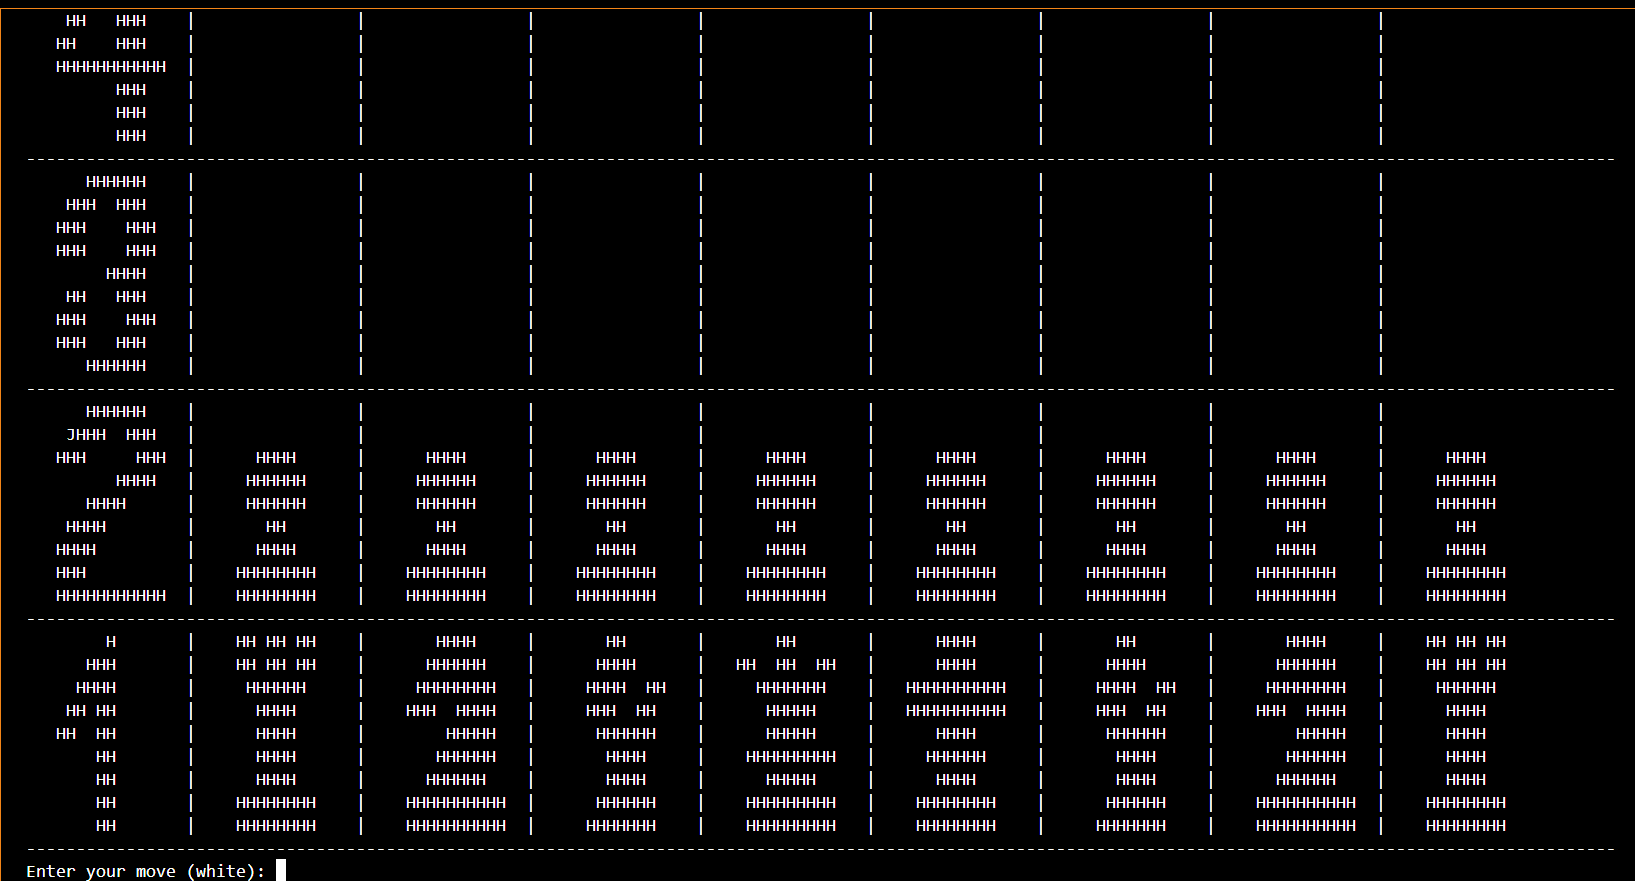
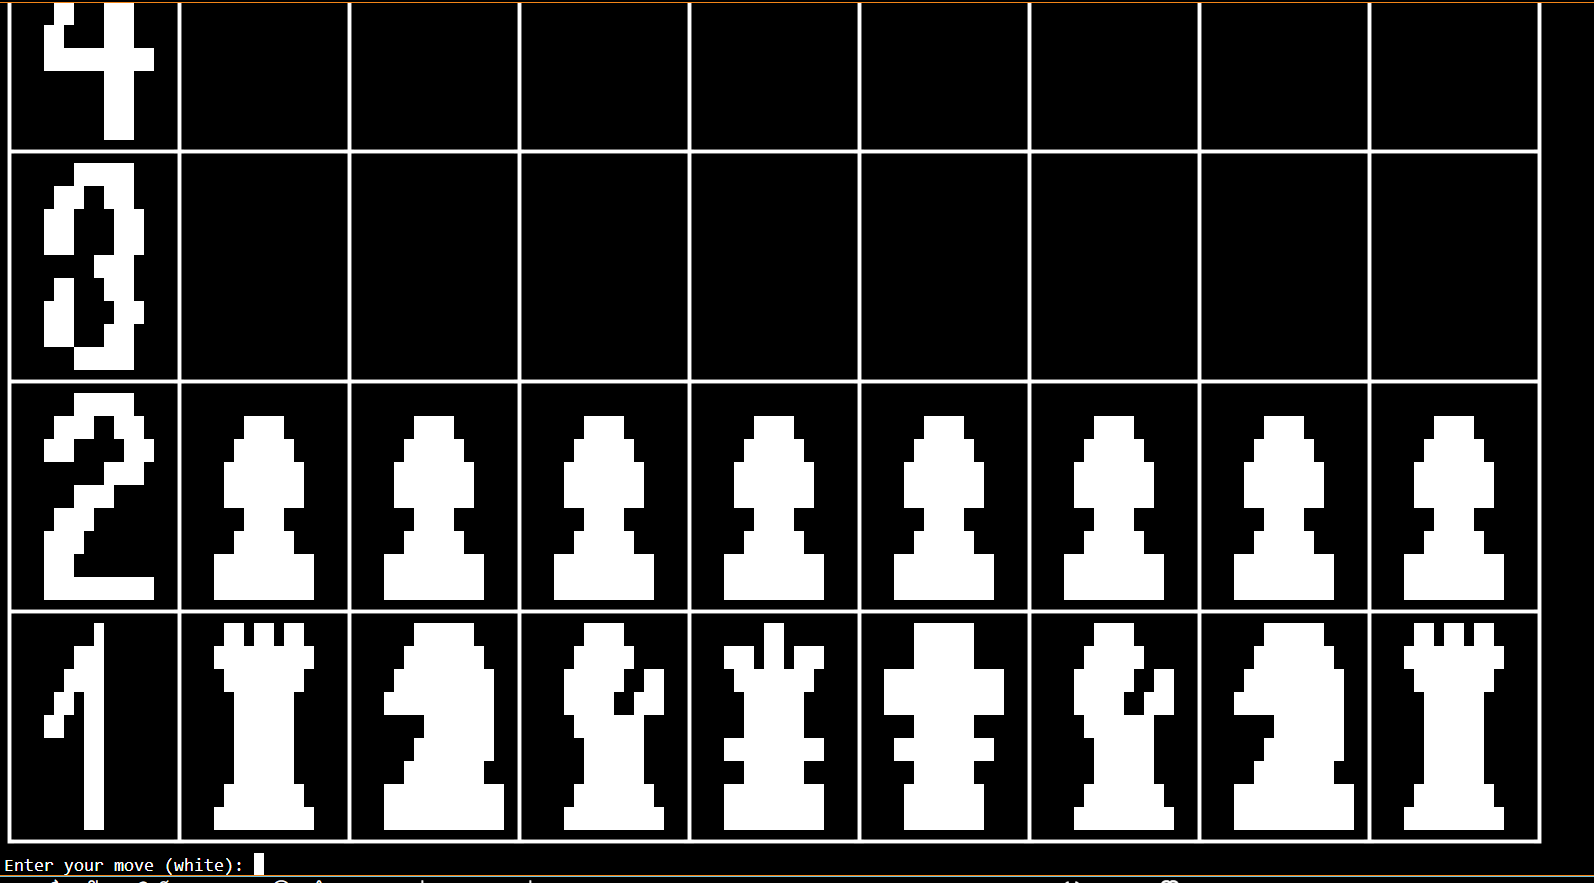
Better graphics

Changed region(s): [[0.0, 0.0, 1.0, 1.0], [0.6148, 0.0, 0.6763, 0.0306]]

diff --git a/render.py b/render.py
@@ -5,6 +5,26 @@ from graphics.pieces import PAWN_PATTERN
 from graphics.letters import letter_graphic_mapping
 from subprocess import run
 
+def separator(big_row_index, cols, piece_width, rows):
+    beginning_char = "┏"
+    ending_char = "┓"
+    joiner = "┳"
+    class Numbers:
+        FIRST = 0
+        LAST = rows + 1
+    match big_row_index:
+        case Numbers.LAST:
+            pass
+        case Numbers.FIRST:
+            beginning_char = "┗"
+            ending_char = "┛"
+            joiner = "┻"
+        case _:
+            beginning_char = "┣"
+            joiner = "╋"
+            ending_char = "┫"
+    print(beginning_char + joiner.join(["━" * piece_width for _ in range(cols + 1)]) + ending_char)
+
 
 def graphics(board: Board) -> str:
     rows = []
@@ -14,21 +34,23 @@ def graphics(board: Board) -> str:
             row = []
             for column in range(len(board.mapping[0]) + 1):
                 if big_row == len(board.mapping):
-                    row.append(letter_graphic_mapping[column][normal_row].replace("_", " "))
+                    row.append(letter_graphic_mapping[column][normal_row].replace("_", " ").replace("H", "█"))
                 else:
                     if column == 0:
-                        row.append(num_graphic_mapping[big_row][normal_row].replace("_", " "))
+                        row.append(num_graphic_mapping[big_row][normal_row].replace("_", " ").replace("H", "█"))
                     else:
                         piece: Piece = board[column-1,big_row]
                         if piece.color == 'black':
-                            row.append(piece.pattern[normal_row].replace("H", " ").replace("_", "H"))
+                            row.append(piece.pattern[normal_row].replace("H", " ").replace("_", " ").replace("J", "█"))
                         elif piece.color == 'white':
-                            row.append(piece.pattern[normal_row].replace("_", " "))
+                            row.append(piece.pattern[normal_row].replace("_", " ").replace("H", "█").replace("J", "█"))
                         else:
-                            row.append("                ")
-            print("|".join(row))
+                            row.append(" " * len(PAWN_PATTERN[0]))
+            print("┃" + "┃".join(row) + "┃")
             big_row_state.append("|".join(row)+"\n")
-        print("-" * ((len(board.mapping[0]) + 1)* len(PAWN_PATTERN[0]) + len(PAWN_PATTERN[0]) - 1))
+        # print("━" * ((len(board.mapping[0]) + 1)* len(PAWN_PATTERN[0]) + len(PAWN_PATTERN[0]) - 1))
+        separator(big_row, len(board.mapping[0]), len(PAWN_PATTERN[0]), len(board.mapping))
+
         rows.extend(big_row_state)
         rows.append("-" * len(big_row_state[0]))
 

diff --git a/graphics/pieces.py b/graphics/pieces.py
@@ -1,66 +1,66 @@
 PAWN_PATTERN = [
 '________________',
-'________________',
-'______HHHH______',
-'_____HHHHHH_____',
-'_____HHHHHH_____',
-'_______HH_______',
-'______HHHH______',
-'____HHHHHHHH____',
-'____HHHHHHHH____'
+'______JJJJ______',
+'_____JHHHHJ_____',
+'____JHHHHHHJ____',
+'____JHHHHHHJ____',
+'______JHHJ______',
+'_____JHHHHJ_____',
+'___JHHHHHHHHJ___',
+'___JJJJJJJJJJ___'
 ]
 ROOK_PATTERN = [
-'____HH_HH_HH____',
-'____HH_HH_HH____',
-'_____HHHHHH_____',
-'______HHHH______',
-'______HHHH______',
-'______HHHH______',
-'______HHHH______',
-'____HHHHHHHH____',
-'____HHHHHHHH____'
+'____JJ_JJ_JJ____',
+'___JHHJHHJHHJ___',
+'____JHHHHHHJ____',
+'_____JHHHHJ_____',
+'_____JHHHHJ_____',
+'_____JHHHHJ_____',
+'_____JHHHHJ_____',
+'____JHHHHHHJ____',
+'___JJJJJJJJJJ___'
 ]
 KNIGHT_PATTERN = [
-'_______HHHH_____',
-'______HHHHHH____',
-'_____HHHHHHHH___',
-'____HHH__HHHH___',
-'________HHHHH___',
-'_______HHHHHH___',
-'______HHHHHH____',
-'____HHHHHHHHHH__',
-'____HHHHHHHHHH__'
+'______JJJJJJ____',
+'_____JHHHHHHJ___',
+'____JHHHHHHHHJ__',
+'___JJJJJJHHHHJ__',
+'_______JHHHHHJ__',
+'______JHHHHHHJ__',
+'_____JHHHHHHJ___',
+'___JHHHHHHHHHHJ_',
+'___JJJJJJJJJJJJ_'
 ]
 BISHOP_PATTERN = [
-'_______HH_______',
-'______HHHH______',
-'_____HHHH__HH___',
-'_____HHH__HH____',
-'______HHHHHH____',
-'_______HHHH_____',
-'_______HHHH_____',
-'______HHHHHH____',
-'_____HHHHHHH____'
+'______JJJJ______',
+'_____JHHHHJ_____',
+'____JHHHHJ__JJ__',
+'____JHHHJ__JHJ__',
+'_____JHHHJJJ____',
+'______JHHHHJ____',
+'______JHHHHJ____',
+'_____JHHHHHHJ___',
+'____JJJJJJJJJJ__'
 ]
 QUEEN_PATTERN = [
-'_______HH_______',
-'___HH__HH__HH___',
-'_____HHHHHHH____',
-'______HHHHH_____',
-'______HHHHH_____',
-'____HHHHHHHHH___',
-'______HHHHH_____',
-'____HHHHHHHHH___',
-'____HHHHHHHHH___'
+'_______JJ_______',
+'___JJJ_JJ_JJJ___',
+'____JJJHHJJJ____',
+'_____JHHHHJ_____',
+'_____JHHHHJ_____',
+'___JJHHHHHHJJ___',
+'_____JHHHHJ_____',
+'___JJHHHHHHJJ___',
+'___JJJJJJJJJJ___'
 ]
 KING_PATTERN = [
-'______HHHH______',
-'______HHHH______',
-'___HHHHHHHHHH___',
-'___HHHHHHHHHH___',
-'______HHHH______',
-'_____HHHHHH_____',
-'______HHHH______',
-'____HHHHHHHH____',
-'____HHHHHHHH____'
+'_____JJJJJJ_____',
+'_____JHHHHJ_____',
+'__JJJHHHHHHJJJ__',
+'__JJJJHHHHJJJJ__',
+'_____JHHHHJ_____',
+'___JJHHHHHHJJ___',
+'_____JHHHHJ_____',
+'____JJHHHHJJ____',
+'____JJJJJJJJ____'
 ]

diff --git a/main.py b/main.py
@@ -1,7 +1,12 @@
 from chess_board import Board, CheckMateError, StaleMateError
 from render import render, clear
-from pieces import pos_attacked
+from pieces import pos_attacked, Pawn, Bishop
 from parser import parse_input, move_piece
+
+# [
+    #     [Pawn("black", (0,0)),  Bishop("white", (0,1))], 
+    #     [Pawn("white", (1, 0)), Bishop("black", (1,1))]
+    # ]
 
 clear()
 board = Board()

diff --git a/graphics/numbers.py b/graphics/numbers.py
@@ -11,7 +11,7 @@ ONE = [
 ]
 TWO = [
 '______HHHHHH____',
-'____JHHH__HHH___',
+'____HHHH__HHH___',
 '___HHH_____HHH__',
 '_________HHHH___',
 '______HHHH______',
